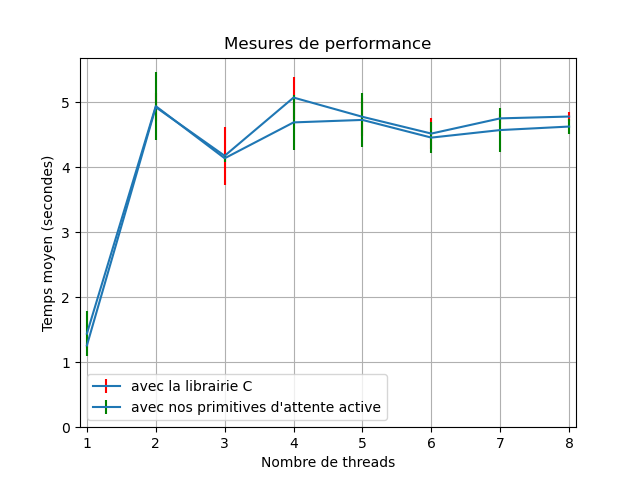
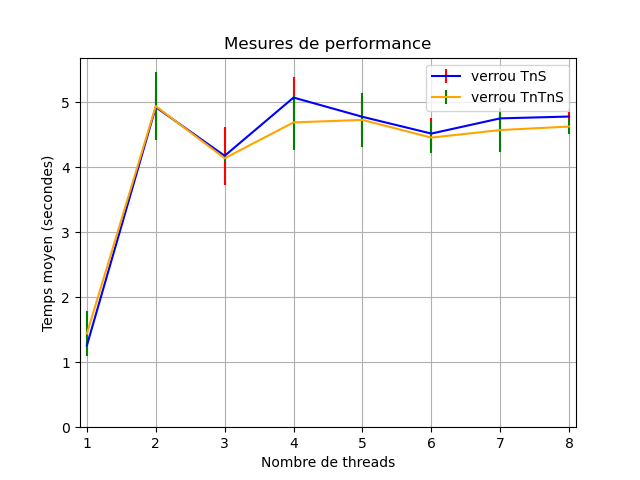
modifs

diff --git a/plot_performance.py b/plot_performance.py
@@ -59,9 +59,10 @@ while curr < len(n) :
 	t_moybis.append(np.mean(val))
 	curr += 1
 	
-# On trace le temps d'exécution en fonction du nombre de threads en bleu avec un trait plein de 1 pixel d'épaisseur
-plt.errorbar(n, t_moy, yerr=ecart_type, ecolor='red', label="avec la librairie C")
-plt.errorbar(n, t_moybis, yerr=ecart_typebis, ecolor='green', label="avec nos primitives d'attente active")
+# On trace le temps d'exécution en fonction du nombre de threads
+plt.errorbar(n, t_moy, yerr=ecart_type, color='blue', ecolor='red', label="verrou TnS")
+
+plt.errorbar(n, t_moybis, yerr=ecart_typebis, color='orange', ecolor='green', label="verrou TnTnS")
 
 plt.legend()
 
